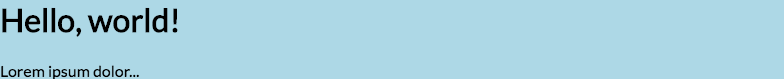
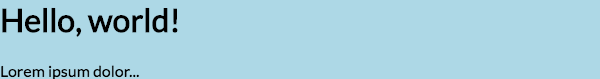
handle more tests than pages, limit page size to 600x600

Changed region(s): [[0.0, 0.1013, 0.3, 0.4557], [0.0, 0.8354, 0.24, 1.0]]

diff --git a/screenshot.js b/screenshot.js
@@ -1,11 +1,13 @@
 const fs = require("fs");
 const path = require("path");
 const puppeteer = require('puppeteer');
+const {promisify} = require('util');
+
+const readFileAsync = promisify(fs.readFile);
 
 async function screenshot(page, name, markup) {
-  // console.log(`generating screenshot for ${name}`);
+  console.log(`processing ${name}`);
   const url = `http://localhost:1234/index.html?markup=${encodeURIComponent(markup)}`;
-  console.log(url);
   await page.goto(url);
 
   const aHandle = await page.evaluateHandle(() => document.body);
@@ -14,7 +16,6 @@ async function screenshot(page, name, markup) {
 
   const bHandle = await page.evaluateHandle(() => document.body.children[0]);
   const bounds = await bHandle.boundingBox();
-  console.log(bounds);
 
   await page.screenshot({path: `screenshots/${name}.png`, clip: bounds});
 }
@@ -25,8 +26,6 @@ async function screenshot(page, name, markup) {
   const pages = [
     await browser.newPage(),
     await browser.newPage(),
-    await browser.newPage(),
-    await browser.newPage(),
   ];
 
   const consoleHandler =  msg => {
@@ -35,22 +34,25 @@ async function screenshot(page, name, markup) {
     });
   };
 
-  pages.forEach(page => page.on("console", consoleHandler));
-
-  // TODO(kevinb): use Promise.race to spread work over a finite number of 
-  // pages
+  pages.forEach(page => {
+    page.on("console", consoleHandler);
+    page.setViewport({
+      width: 600,
+      height: 600,
+    });
+  });
 
   const files = fs.readdirSync("tests").filter(file => path.extname(file) === ".html");
 
-  await Promise.all(files.map((file, i) => new Promise((resolve, reject) => {
-    fs.readFile(path.join("tests", file), "utf8", (err, data) => {
-      if (err) {
-        reject(err);
-      } else {
-        resolve(screenshot(pages[i], path.basename(file, ".html"), data));
+  while (files.length > 0) {
+    // TODO(kevinb): rewrite to use Promise.race so that we don't have to wait
+    // for pages to complete before starting other tests.
+    await Promise.all(pages.slice(0, Math.min(pages.length, files.length)).map(async (page) => {
+      const file = files.shift();
+      const contents = await readFileAsync(path.join("tests", file), "utf8");
+      await screenshot(page, path.basename(file, ".html"), contents);
+    }));
       }
-    });
-  })));
 
   await browser.close();
 })();

diff --git a/index.js b/index.js
@@ -2,4 +2,4 @@ const params = new URLSearchParams(location.search);
 const markup = params.get("markup");
 
 document.body.innerHTML = markup;
-console.log(params.get("markup"));
+// console.log(params.get("markup"));

diff --git a/index.html b/index.html
@@ -5,6 +5,7 @@
         <style>
             body {
                 font-family: Lato;
+                margin: 0;
             }
         </style>
     </head>

diff --git a/tests/test5.html b/tests/test5.html
@@ -1,0 +1,3 @@
+<div style="background: lightcoral;">
+    <input type="text" placeholder="hello, world!"></input>
+</div>
